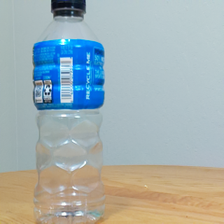
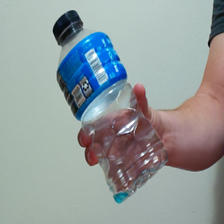
Flipped the live feed orientation so that it makes sense when people hold stuff up in front of the camera.

diff --git a/src/live_feed.py b/src/live_feed.py
@@ -20,6 +20,7 @@ class LiveFeed(QThread):
         self.ThreadActive = True
         while self.ThreadActive:
             img = Image.fromarray(self.picam2.capture_array()).resize(size=(224, 224), resample=Image.Resampling.LANCZOS)
+            img = img.transpose(Image.FLIP_LEFT_RIGHT)
             
             draw = ImageDraw.Draw(img)
             font_size = 100
@@ -47,6 +48,7 @@ class LiveFeed(QThread):
             self.ImageUpdate.emit(Pic)
         # Load clean image
         img = Image.fromarray(self.picam2.capture_array()).resize(size=(224, 224), resample=Image.Resampling.LANCZOS)
+        img = img.transpose(Image.FLIP_LEFT_RIGHT)
         ConvertToQtFormat = QImage(np.array(img).data, 224, 224, QImage.Format_RGB888)
         Pic = ConvertToQtFormat.scaled(600, 600)
         self.ImageUpdate.emit(Pic)
